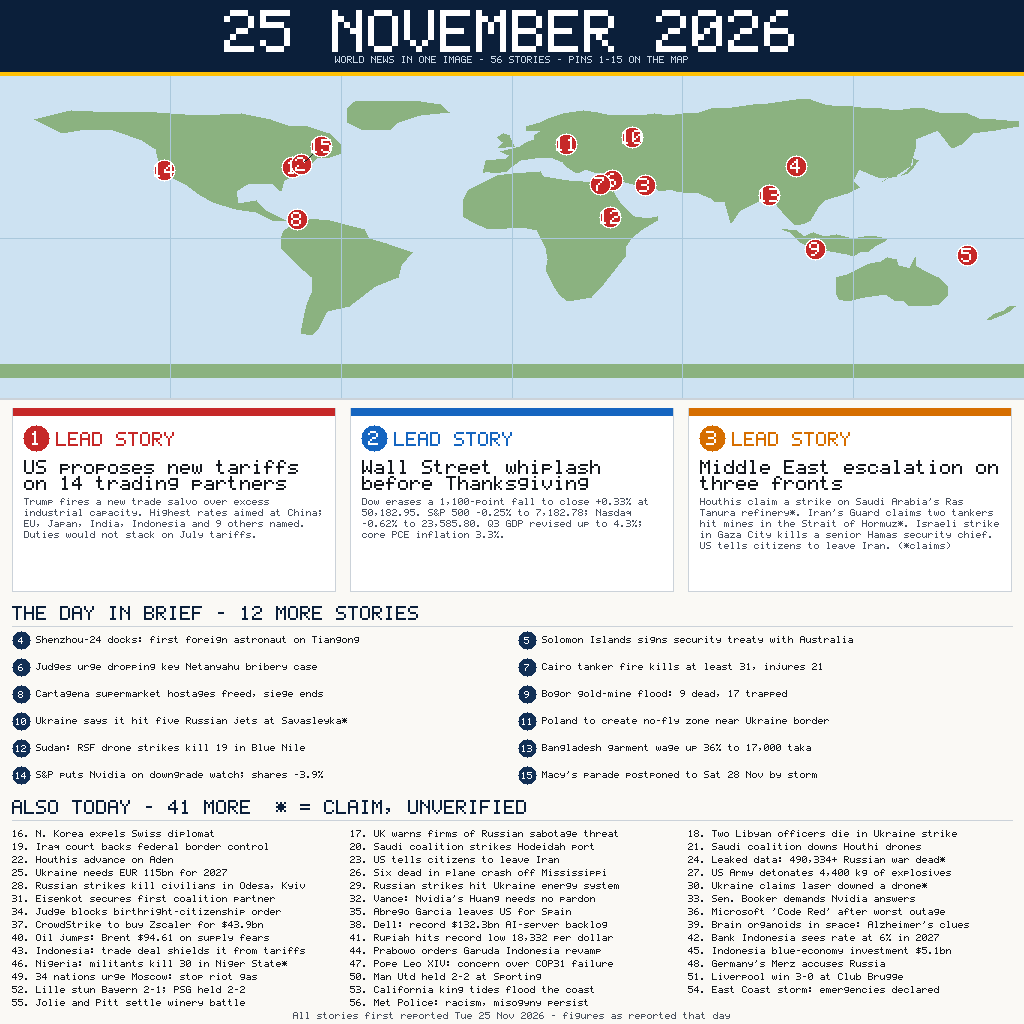
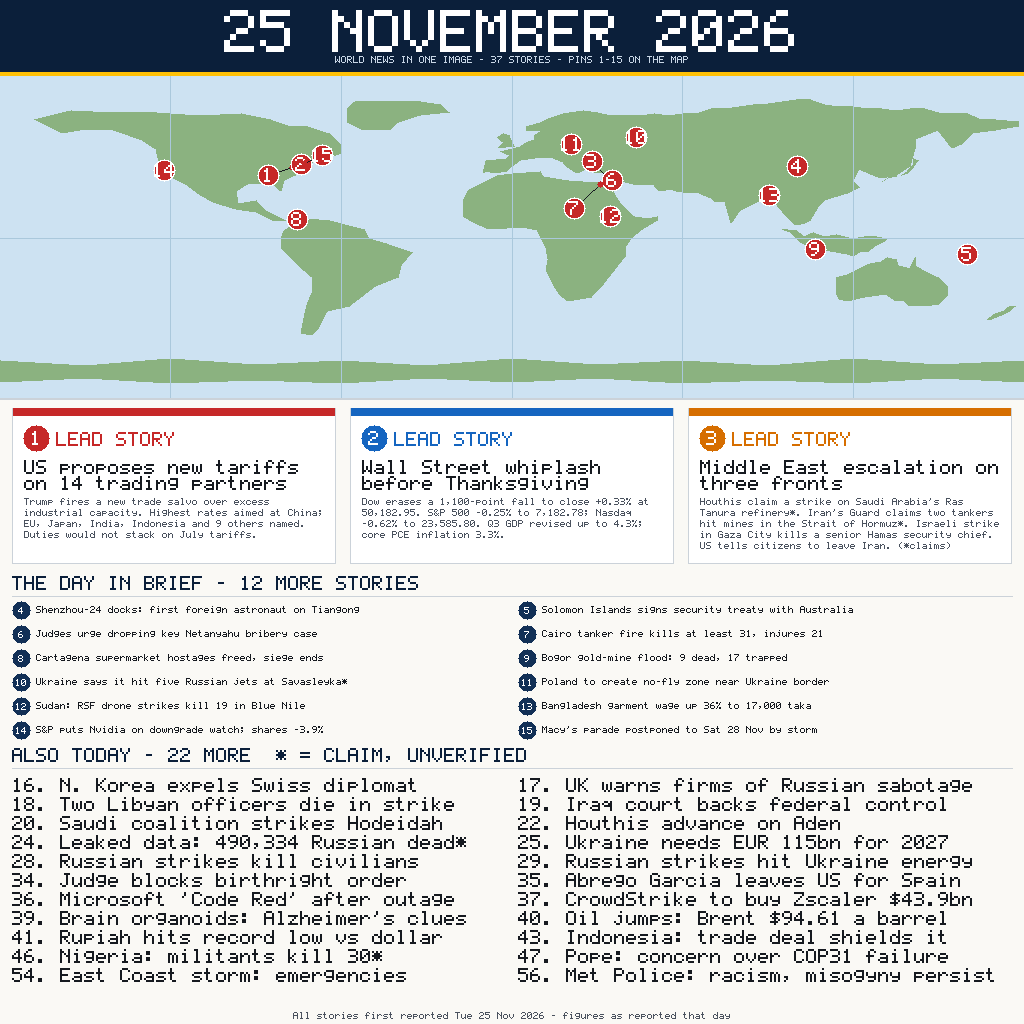
v2: fixed map pins and readable also-today

diff --git a/main.py b/main.py
@@ -7,10 +7,12 @@ Deterministic: same bytes every run, no timestamps, no randomness,
 no network. Paths resolve from this file's own location, never CWD.
 Output: $MAKEFUN_OUTPUT_DIR/entry.png, else /output/entry.png.
 
-All facts come from NEWS_25NOV.md (56 stories first reported 25 Nov
-2026: 3 lead + 12 medium + 41 also-today). Unverified claims are
-marked with * and labelled as claims. No 24 Nov story is presented
-as a 25 Nov story.
+All facts come from NEWS_25NOV.md (stories first reported 25 Nov
+2026: 3 lead + 12 medium + 22 also-today = 37). The also-today
+section keeps only the most consequential of the file's 41
+also-today stories; celebrity, routine sports and king-tide items
+were cut. Unverified claims are marked with * and labelled as
+claims. No 24 Nov story is presented as a 25 Nov story.
 """
 
 import os
@@ -345,30 +347,37 @@ CONTINENTS = [
     # New Zealand
     [(167, -45), (170, -42), (173, -40), (175, -38), (177, -38),
      (175, -41), (172, -43), (168, -46), (167, -45)],
-    # Antarctica (schematic strip)
-    [(-180, -70), (-120, -70), (-60, -70), (0, -70), (60, -70),
-     (120, -70), (180, -70), (180, -78), (120, -78), (60, -78),
-     (0, -78), (-60, -78), (-120, -78), (-180, -78)],
+    # Antarctica (schematic, wavy coastline — not a flat bar)
+    [(-180, -68), (-150, -71), (-120, -67), (-90, -70), (-60, -68),
+     (-30, -71), (0, -67), (30, -70), (60, -68), (90, -71),
+     (120, -67), (150, -70), (180, -68), (180, -80), (150, -78),
+     (120, -81), (90, -79), (60, -81), (30, -78), (0, -80),
+     (-30, -78), (-60, -81), (-90, -79), (-120, -81), (-150, -78),
+     (-180, -80)],
 ]
 
-# Pins for stories 1-15: (number, lon, lat, dx, dy) — dx/dy nudge the
-# drawn pin away from its true spot when two pins would collide.
+# Pins for stories 1-15: (number, lon, lat, dx, dy). Every pin is
+# placed from its true longitude/latitude through lonlat() below
+# (equirectangular: lon -180..180 -> x, lat 90..-90 -> y). dx/dy
+# nudge the drawn pin away from its true spot ONLY where pins
+# would collide (1, 3, 7, 15); draw_pin draws a leader line from
+# the true spot (small red dot) to the offset pin.
 PINS = [
-    (1, -77, 39, 0, 0),
-    (2, -74, 40.7, 0, 0),
-    (3, 47, 29, 0, 0),
-    (4, 100, 40, 0, 0),
-    (5, 160, -9.6, 0, 0),
-    (6, 35.2, 31.8, 0, 0),
-    (7, 31.2, 30, 0, 0),
-    (8, -75.5, 10.4, 0, 0),
-    (9, 106.8, -6.6, 0, 0),
-    (10, 42.3, 55.7, 0, 0),
-    (11, 19, 52, 0, 0),
-    (12, 34.5, 11.5, 0, 0),
-    (13, 90.4, 23.8, 0, 0),
-    (14, -122, 37.4, 0, 0),
-    (15, -74, 40.7, 20, -18),  # shares NYC with pin 2; offset with leader
+    (1, -77.0, 38.9, -24, 8),    # Washington DC; offset W, leader to DC
+    (2, -74.0, 40.7, 0, 0),     # New York City
+    (3, 34.5, 31.5, -18, -20),  # Gaza City; offset NW, leader to Gaza
+    (4, 100.3, 39.7, 0, 0),     # Jiuquan
+    (5, 160.0, -9.4, 0, 0),     # Honiara
+    (6, 35.2, 31.8, 0, 0),      # Jerusalem
+    (7, 31.2, 30.0, -26, 24),   # Cairo; offset SW, leader to Cairo
+    (8, -75.5, 10.4, 0, 0),     # Cartagena
+    (9, 106.8, -6.6, 0, 0),     # Bogor
+    (10, 43.7, 55.6, 0, 0),     # Savasleyka airbase
+    (11, 21.0, 52.2, 0, 0),     # Warsaw
+    (12, 34.5, 11.8, 0, 0),     # Damazin
+    (13, 90.4, 23.8, 0, 0),     # Dhaka
+    (14, -122.0, 37.4, 0, 0),   # Santa Clara
+    (15, -73.0, 41.2, 18, -8),  # NYC parade; anchor E of pin 2, offset NE
 ]
 
 # ---------------------------------------------------------------- stories
@@ -404,48 +413,33 @@ MEDIUM = [
     (15, "Macy's parade postponed to Sat 28 Nov by storm"),
 ]
 
-# Also-today stories 16-56, one short line each.
+# Also-today stories: the 22 most consequential of the file's 41.
+# Cut: celebrity (55), routine sports results (50-52), king tides
+# (53), near-duplicates of lead stories (21, 23), single-source
+# unverified claims (30), and low-consequence items (27, 31-33,
+# 38, 42, 44-45, 48-49). One short line each, drawn at scale 2.
 ALSO = [
     (16, "N. Korea expels Swiss diplomat"),
-    (17, "UK warns firms of Russian sabotage threat"),
-    (18, "Two Libyan officers die in Ukraine strike"),
-    (19, "Iraq court backs federal border control"),
-    (20, "Saudi coalition strikes Hodeidah port"),
-    (21, "Saudi coalition downs Houthi drones"),
+    (17, "UK warns firms of Russian sabotage"),
+    (18, "Two Libyan officers die in strike"),
+    (19, "Iraq court backs federal control"),
+    (20, "Saudi coalition strikes Hodeidah"),
     (22, "Houthis advance on Aden"),
-    (23, "US tells citizens to leave Iran"),
-    (24, "Leaked data: 490,334+ Russian war dead*"),
+    (24, "Leaked data: 490,334 Russian dead*"),
     (25, "Ukraine needs EUR 115bn for 2027"),
-    (26, "Six dead in plane crash off Mississippi"),
-    (27, "US Army detonates 4,400 kg of explosives"),
-    (28, "Russian strikes kill civilians in Odesa, Kyiv"),
-    (29, "Russian strikes hit Ukraine energy system"),
-    (30, "Ukraine claims laser downed a drone*"),
-    (31, "Eisenkot secures first coalition partner"),
-    (32, "Vance: Nvidia's Huang needs no pardon"),
-    (33, "Sen. Booker demands Nvidia answers"),
-    (34, "Judge blocks birthright-citizenship order"),
+    (28, "Russian strikes kill civilians"),
+    (29, "Russian strikes hit Ukraine energy"),
+    (34, "Judge blocks birthright order"),
     (35, "Abrego Garcia leaves US for Spain"),
-    (36, "Microsoft 'Code Red' after worst outage"),
-    (37, "CrowdStrike to buy Zscaler for $43.9bn"),
-    (38, "Dell: record $132.3bn AI-server backlog"),
-    (39, "Brain organoids in space: Alzheimer's clues"),
-    (40, "Oil jumps: Brent $94.61 on supply fears"),
-    (41, "Rupiah hits record low 18,332 per dollar"),
-    (42, "Bank Indonesia sees rate at 6% in 2027"),
-    (43, "Indonesia: trade deal shields it from tariffs"),
-    (44, "Prabowo orders Garuda Indonesia revamp"),
-    (45, "Indonesia blue-economy investment $5.1bn"),
-    (46, "Nigeria: militants kill 30 in Niger State*"),
-    (47, "Pope Leo XIV: concern over COP31 failure"),
-    (48, "Germany's Merz accuses Russia"),
-    (49, "34 nations urge Moscow: stop riot gas"),
-    (50, "Man Utd held 2-2 at Sporting"),
-    (51, "Liverpool win 3-0 at Club Brugge"),
-    (52, "Lille stun Bayern 2-1; PSG held 2-2"),
-    (53, "California king tides flood the coast"),
-    (54, "East Coast storm: emergencies declared"),
-    (55, "Jolie and Pitt settle winery battle"),
+    (36, "Microsoft 'Code Red' after outage"),
+    (37, "CrowdStrike to buy Zscaler $43.9bn"),
+    (39, "Brain organoids: Alzheimer's clues"),
+    (40, "Oil jumps: Brent $94.61 a barrel"),
+    (41, "Rupiah hits record low vs dollar"),
+    (43, "Indonesia: trade deal shields it"),
+    (46, "Nigeria: militants kill 30*"),
+    (47, "Pope: concern over COP31 failure"),
+    (54, "East Coast storm: emergencies"),
     (56, "Met Police: racism, misogyny persist"),
 ]
 
@@ -473,7 +467,7 @@ def build():
     cv.fill_rect(0, MAP_Y0 - 4, W, 4, GOLD)
     draw_text_centered(cv, W // 2, 10, "25 NOVEMBER 2026", 6, WHITE)
     draw_text_centered(cv, W // 2, 56,
-                       "WORLD NEWS IN ONE IMAGE - 56 STORIES - PINS 1-15 ON THE MAP",
+                       "WORLD NEWS IN ONE IMAGE - 37 STORIES - PINS 1-15 ON THE MAP",
                        1, (200, 214, 230))
 
     # ---- map
@@ -491,7 +485,7 @@ def build():
     cv.fill_rect(0, MAP_Y1 - 2, W, 2, GREY_LINE)
 
     # ---- lead stories: 3 boxes
-    box_y, box_h, box_w = 408, 184, 324
+    box_y, box_h, box_w = 408, 156, 324
     for i, (num, head, detail) in enumerate(LEAD):
         x = 12 + i * (box_w + 14)
         cv.fill_rect(x, box_y, box_w, box_h, WHITE)
@@ -515,29 +509,29 @@ def build():
             y += 11
 
     # ---- medium stories: heading + 2 columns x 6 rows
-    draw_text(cv, 12, 606, "THE DAY IN BRIEF - 12 MORE STORIES", 2, NAVY)
-    cv.hline(12, W - 12, 626, GREY_LINE)
+    draw_text(cv, 12, 576, "THE DAY IN BRIEF - 12 MORE STORIES", 2, NAVY)
+    cv.hline(12, W - 12, 596, GREY_LINE)
     for i, (num, text) in enumerate(MEDIUM):
         col = i % 2
         row = i // 2
         x = 12 + col * 506
-        y = 636 + row * 27
+        y = 606 + row * 24
         cv.fill_circle(x + 9, y + 4, 9, NAVY2)
         draw_text(cv, x + 9 - text_width(str(num), 1) // 2, y + 1,
                   str(num), 1, WHITE)
         for j, line in enumerate(wrap_text(text, 1, 462)):
             draw_text(cv, x + 24, y + j * 11, line, 1, INK)
 
-    # ---- also today: heading + 3 columns x 14 rows
-    draw_text(cv, 12, 800, "ALSO TODAY - 41 MORE  * = CLAIM, UNVERIFIED",
+    # ---- also today: 2 columns x 11 rows, scale 2 (twice v1's size)
+    draw_text(cv, 12, 748, "ALSO TODAY - 22 MORE  * = CLAIM, UNVERIFIED",
               2, NAVY)
-    cv.hline(12, W - 12, 820, GREY_LINE)
+    cv.hline(12, W - 12, 768, GREY_LINE)
     for i, (num, text) in enumerate(ALSO):
-        col = i % 3
-        row = i // 3
-        x = 12 + col * 338
-        y = 830 + row * 13
-        draw_text(cv, x, y, "%d. %s" % (num, text), 1, INK)
+        col = i % 2
+        row = i // 2
+        x = 12 + col * 506
+        y = 778 + row * 19
+        draw_text(cv, x, y, "%d. %s" % (num, text), 2, INK)
 
     # ---- footer
     draw_text_centered(cv, W // 2, 1012,
